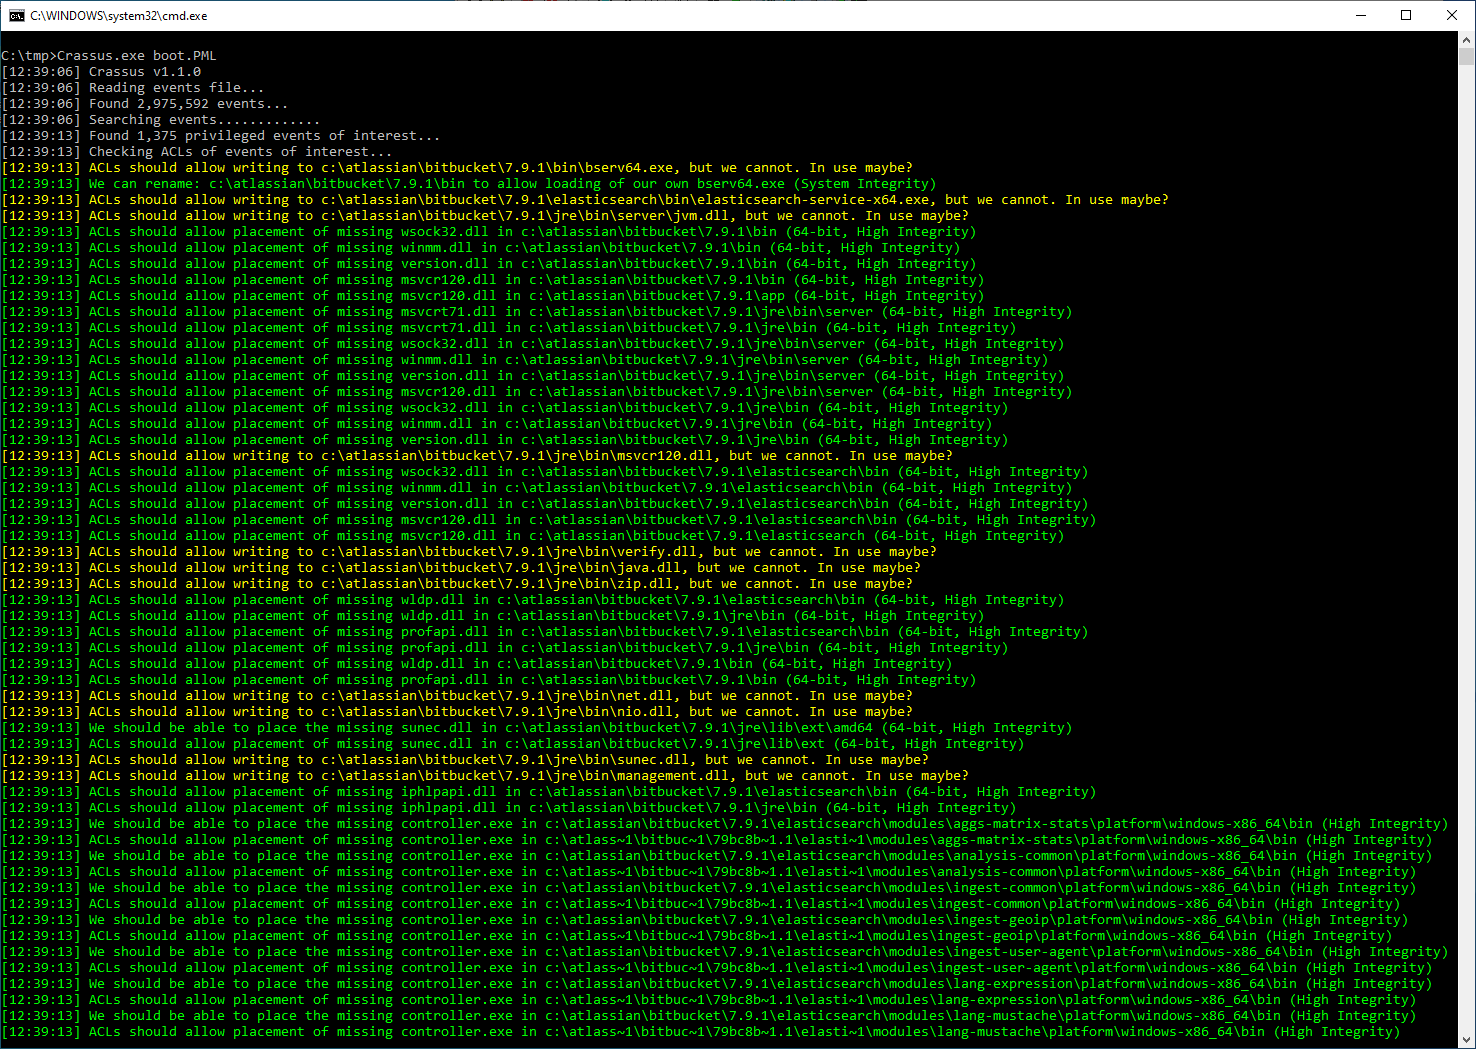
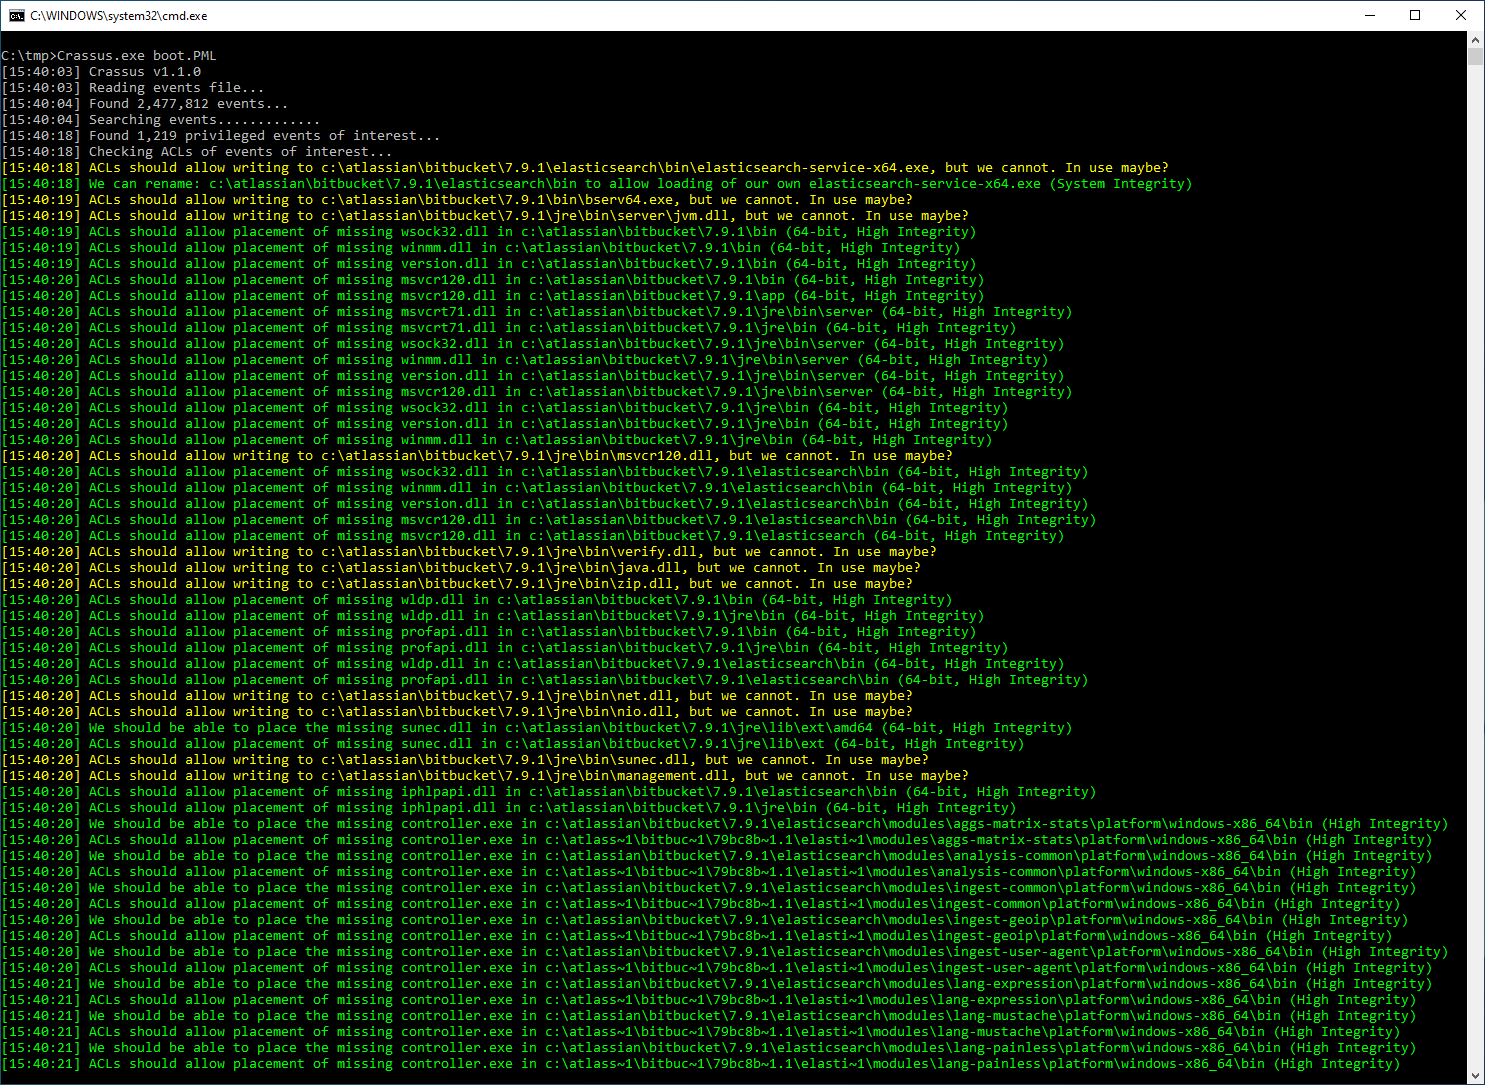
Bitbucket examples

diff --git a/README.md b/README.md
@@ -199,7 +199,13 @@ Crassus finds many ways to achieve privilege escaltion with this software, inclu
 * Renaming the directory of a privileged EXE to allow user placement of an EXE of the same name.
 ![Crassus output for Atlassian Bitbucket](screenshots/bitbucket.png "Crassus output for Atlassian Bitbucket")
 
-### DLL Hijacking
+### EXE Hijacking
+
+In the Crassus output, we can see that `c:\atlassian\bitbucket\7.9.1\elasticsearch\bin\elasticsearch-service-x64.exe` is privileged, but since it's running we cannot simply replace it. However, we can use another trick to hijack it. We can simply rename the directory that it lives in, create a new directory of the same name, and plant our payload there as the same name. Windows won't care about this.
+!["Rename the directory that a privileged process is running from"](screenshots/bitbucket_rename_dir.png)
+
+Once we reboot with a Process monitor boot log, we can see that our planted `elasticsearch-service-x64.exe` file is running instead of the real one, based on the Windows Calculator icon.
+!["Planted calc.exe as elasticsearch-service-x64.exe"](screenshots/elasticsearch_planted.png)
 
 
 # Contributions
